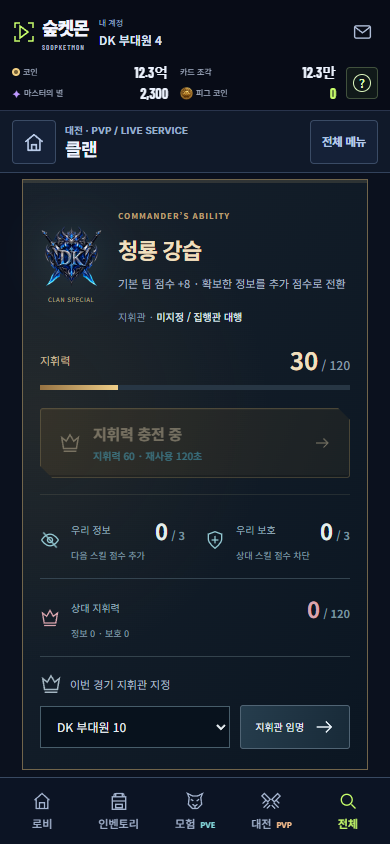
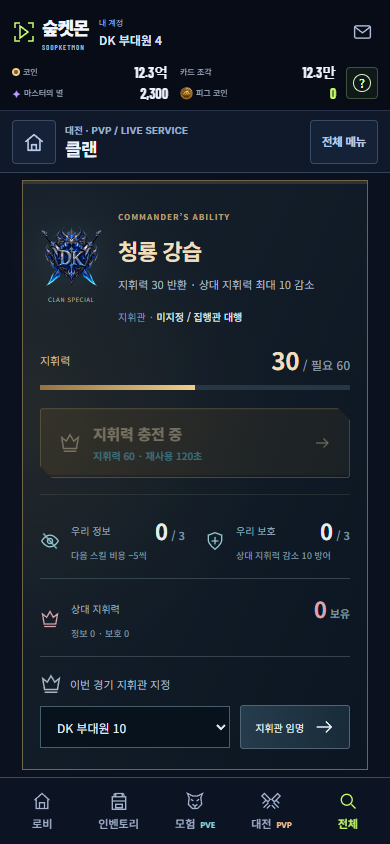
[CF-Pages-Skip] Cap clan operations at 15 points and credit actual supply contributors

diff --git a/js/clan-v1.js b/js/clan-v1.js
@@ -195,7 +195,7 @@
     document.querySelectorAll('[data-clan-pick]').forEach(button=>button.onclick=()=>{if(confirm('이 후보를 지명하면 되돌릴 수 없습니다. 진행할까요?'))void mutate('clan/draft/pick',{candidateKey:button.dataset.clanPick,pickNo:state.data.draft?.pickNo},button)});document.querySelectorAll('[data-clan-fight]').forEach(button=>button.onclick=()=>void fight(button));
     document.querySelectorAll('[data-clan-test]').forEach(button=>button.onclick=()=>{const action=button.dataset.clanTest,limit=participantLimit(state.data),messages={bootstrap:`PLAY DK 인증·랭크전 덱 계정 최대 ${number(limit)}명으로 비공개 테스트 풀을 구성할까요?`,activate:'남은 지명을 자동 완료하고 V3 클랜전을 개막할까요?',settle:'현재 점수로 테스트 시즌을 즉시 정산할까요? 코인·아이템 보상은 지급되지 않습니다.'};if(!confirm(messages[action]||'테스트 작업을 실행할까요?'))return;const path=action==='bootstrap'?'clan/admin/test-bootstrap':action==='activate'?'clan/admin/test-activate':'clan/admin/test-settle';void mutate(path,action==='bootstrap'?{limit}: {},button)});
   }
-  function bind(ctx){state.ctx=ctx;void import('./clan-war-reform-v1.mjs?v=20261005-art-v2').then(m=>{m.connect(ctx);if(state.data)render();});void import('./clan-faction-v1.mjs?v=20261005-executives').then(m=>{m.connect(ctx);const root=document.getElementById('clanFactionRoot');if(root)m.mount(root,ctx)}).catch(()=>{const root=document.getElementById('clanFactionRoot');if(root){root.innerHTML='<div class="fw-loading">세력전 화면을 불러오지 못했습니다.<button type="button" data-clan-faction-retry>다시 불러오기</button></div>';root.querySelector('button').onclick=()=>ctx.renderShell('clan')}});void load()}
+  function bind(ctx){state.ctx=ctx;void import('./clan-war-reform-v1.mjs?v=20261005-balance-v3').then(m=>{m.connect(ctx);if(state.data)render();});void import('./clan-faction-v1.mjs?v=20261005-executives').then(m=>{m.connect(ctx);const root=document.getElementById('clanFactionRoot');if(root)m.mount(root,ctx)}).catch(()=>{const root=document.getElementById('clanFactionRoot');if(root){root.innerHTML='<div class="fw-loading">세력전 화면을 불러오지 못했습니다.<button type="button" data-clan-faction-retry>다시 불러오기</button></div>';root.querySelector('button').onclick=()=>ctx.renderShell('clan')}});void load()}
   function stop(){clearInterval(state.countdownTimer);state.countdownTimer=null;clearTimeout(state.refreshTimer);state.refreshTimer=null;state.loading=false}
   function openTab(tab){state.tab=tab;if(state.data||state.loading)render();}
   global.ClanV1={view,bind,stop,state,openWar:()=>openTab('war'),openFaction:()=>openTab('faction')};

diff --git a/functions/_clan_war_reform.js b/functions/_clan_war_reform.js
@@ -1,6 +1,6 @@
 import {clanAdminTransaction} from './_clan_inactivity_cleanup.js';
 import {ensureClanReform,executiveRows,refreshClanExecutives} from './_clan_governance.js';
-import {WAR_DAYS,CLAN_SKILLS,READY_WINDOW_MS,weekOf,weekDates,readyOpen,utcMs,newField,fieldTeam,supportEnergy,applyFieldAction} from '../shared/clan-war-reform-v1.mjs';
+import {WAR_DAYS,CLAN_SKILLS,OPERATION_LIMITS,READY_WINDOW_MS,weekOf,weekDates,readyOpen,utcMs,newField,fieldTeam,fieldPlayer,commandCost,supportEnergy,applyFieldAction} from '../shared/clan-war-reform-v1.mjs';
 
 const check=(ok,message,status=409)=>{if(!ok)throw Object.assign(new Error(message),{status});};
 const pack=JSON.stringify;
@@ -25,9 +25,11 @@ export async function clanReformState(env,user,season,now=Date.now()){
   if(war){const row=await env.DB.prepare('SELECT state_json FROM clan_war_field_state WHERE war_id=?').bind(war.id).first();field=row?JSON.parse(row.state_json):newField();
     const own=fieldTeam(field,clanId),enemyId=Number(war.clan_a_id)===clanId?Number(war.clan_b_id):Number(war.clan_a_id);fieldTeam(field,enemyId);
     if(!people.some(p=>p.userId===own.commander))own.commander=0;
-    const ownPlayer=field.users[user.id]||{used:0,points:0,lastAt:0};
+    const ownPlayer=fieldPlayer(field,user.id);
     // Do not expose other users' per-user action clocks or request information.
-    field={teams:field.teams,events:field.events,my:ownPlayer,energy:supportEnergy(war,ownPlayer.used,now),skill:CLAN_SKILLS[mine.mark_key],canCommand:own.commander?own.commander===Number(user.id):executives.some(e=>e.userId===Number(user.id))};
+    field={teams:Object.fromEntries(Object.entries(field.teams).map(([id,{supplies,...team}])=>[id,team])),events:field.events,
+      my:{...ownPlayer,pendingSupply:own.supplies.filter(s=>s.userId===Number(user.id)).reduce((n,s)=>n+s.amount,0)},limits:OPERATION_LIMITS,skillCost:commandCost(own),
+      energy:supportEnergy(war,ownPlayer.used,now),skill:CLAN_SKILLS[mine.mark_key],canCommand:own.commander?own.commander===Number(user.id):executives.some(e=>e.userId===Number(user.id))};
   }
   return {enabled:true,membership:true,weekStart:weekOf(now),days:weekDates(now),myDays:available.get(Number(user.id))||[],submitted:available.has(Number(user.id)),executives,roster:people,field,
     war:war?{id:Number(war.id),status:war.status,clanAId:Number(war.clan_a_id),clanBId:Number(war.clan_b_id),scoreA:Number(war.score_a),scoreB:Number(war.score_b),startsAt:war.starts_at,endsAt:war.ends_at,readyAt:new Date(utcMs(war.starts_at)-READY_WINDOW_MS).toISOString(),readyOpen:readyOpen(war,now),myReady:readyById.get(Number(user.id))||'UNANSWERED'}:null,serverNow:new Date(now).toISOString()};

diff --git a/js/app.js b/js/app.js
@@ -3439,7 +3439,7 @@ function bindView(tab) {
   if(tab==='battle'){document.querySelectorAll('.pve-mode-btn[data-pve-mode]').forEach(b=>b.onclick=()=>switchPveMode(b.dataset.pveMode));loadBattleView();}
   if(tab==='pvp') loadPvpView();
   if(tab==='duo'){const root=document.getElementById('rankedDuoRoot');void import('./ranked-duo-v1.mjs?v=20260928-extra12').then(m=>{if(root?.isConnected)return m.mountRankedDuo({root,userId:loadUser()?.serverUserId,onWallet:wallet=>{const u=loadUser();if(u&&Number(u.serverUserId)===wallet.userId&&Number.isFinite(wallet.coin)&&Number.isFinite(wallet.cardShards))saveUser({...u,coin:wallet.coin,cardShards:wallet.cardShards});},navigate:()=>{pvpState.tab='deck';renderShell('pvp');},ensureBattle:()=>ensureFeatureResources('battleV2'),api:(path,options={})=>apiRequest(path,{...options,...(options.body?{body:JSON.stringify(options.body)}:{})},{ttl:0,microcache:false,timeoutMs:30000})});}).catch(error=>{if(root?.isConnected)root.textContent=error.message;});}
-  void import('./clan-war-reform-v1.mjs?v=20261005-art-v2').then(m=>m.connect({apiRequest,clearApiCache,renderShell})).catch(()=>{});
+  void import('./clan-war-reform-v1.mjs?v=20261005-balance-v3').then(m=>m.connect({apiRequest,clearApiCache,renderShell})).catch(()=>{});
   void import('./clan-faction-v1.mjs?v=20261005-executives').then(m=>m.connect({apiRequest,clearApiCache,renderShell,ensureFeatureResources,prepareImmediateBattleV3Entry,ensureBattleSoundButton,battleSfx})).catch(()=>{});
   if(tab==='clan'&&typeof window.ClanV1?.bind==='function')window.ClanV1.bind({apiRequest,clearApiCache,renderShell,ensureFeatureResources,prepareImmediateBattleV3Entry,ensureBattleSoundButton,battleSfx});
   if(tab==='mineral') loadMineralExchange();

diff --git a/css/clan-war-reform-v1.css b/css/clan-war-reform-v1.css
@@ -129,3 +129,7 @@
 .cw-standby{min-height:370px;padding:25px}.cw-standby h2{font-size:27px}
 }
 @media(prefers-reduced-motion:reduce){.cw-mission-art>img,.cw-war-screen button{transition:none}.cw-mission:hover .cw-mission-art>img{transform:none}}
+.cw-my-contribution{display:grid;grid-template-columns:repeat(4,minmax(0,1fr));gap:12px 20px;margin:0 0 22px;padding:18px 22px;border-block:1px solid #bda46b50;background:linear-gradient(90deg,#bda46b10,#14243050)}
+.cw-my-contribution>div{display:grid;gap:7px;min-width:0;border-left:2px solid #7494a066;padding-left:16px}.cw-my-contribution>div:first-child{border-color:#d9bb7b}
+.cw-my-contribution small{font-size:11px;letter-spacing:0;color:#abbecb}.cw-my-contribution b{font-size:24px;color:#ebd9b6;line-height:1.1}.cw-my-contribution em{font-size:12px;color:#8c9f9e;font-style:normal}.cw-my-contribution span{font-size:10px;line-height:1.6;color:#8aa5b2;overflow-wrap:anywhere}
+@media(max-width:760px){.cw-my-contribution{grid-template-columns:repeat(2,minmax(0,1fr));padding:16px 12px;gap:19px 12px}.cw-my-contribution>div{padding-left:10px}.cw-my-contribution b{font-size:23px}.cw-my-contribution span{font-size:9px}}

diff --git a/index.html b/index.html
@@ -42,7 +42,7 @@
   <link rel="stylesheet" href="css/battle-v3-live.css?v=1901-nightmare-mark-overlap&flow=2126&backdrop=20261005">
   <link rel="stylesheet" href="css/secondary-verification-v1780.css?v=1799-playdk-only">
   <link rel="stylesheet" href="css/clan-v1.css?v=20261005-reform">
-  <link rel="stylesheet" href="css/clan-war-reform-v1.css?v=20261005-art-v2">
+  <link rel="stylesheet" href="css/clan-war-reform-v1.css?v=20261005-balance-v3">
   <link rel="stylesheet" href="css/clan-command-v1.css?v=2127">
   <link rel="stylesheet" href="css/clan-faction-v1.css?v=20261001-session-rewards">
   <link rel="stylesheet" href="css/clan-champions-v2071.css?v=2109-champions-trophy">
